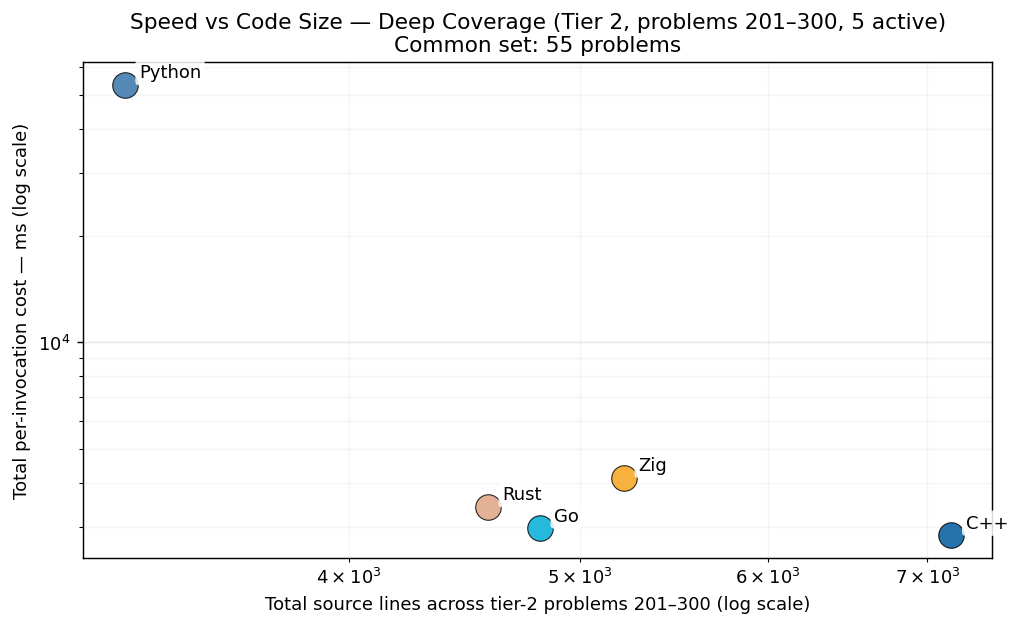
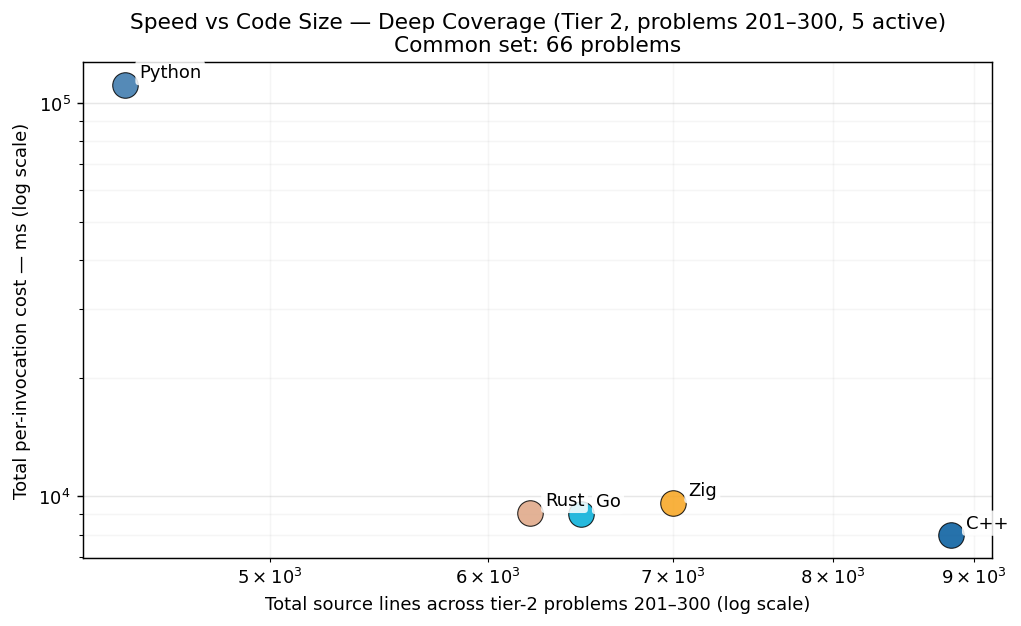
publish: +34 Rust wave-5 cells + cpp p254 correction; tier-2 rust 95/96 (only p275 missing); cross-lang verified p254=8184523820510

diff --git a/per_problem/per_problem_201-300.md b/per_problem/per_problem_201-300.md
@@ -32,13 +32,13 @@ column per language in tier-1 display order (native → managed → interpreted)
 | **p220** | 1.6 µs | 625 ns | 1.5 µs | 2.5 µs | 87.2 µs |
 | **p221** | 20.94 ms | 11.44 ms | 14.59 ms | 48.79 ms | 284.41 ms |
 | **p222** | 20.0 µs | 24.9 µs | 1.88 s | 27.3 µs | 1.11 ms |
-| **p223** | 5.53 s | — | 6.90 s | 5.69 s | — |
-| **p224** | 2.07 s | — | 2.16 s | 1.84 s | — |
+| **p223** | 5.53 s | 4.96 s | 6.90 s | 5.69 s | — |
+| **p224** | 2.07 s | 1.69 s | 2.16 s | 1.84 s | — |
 | **p225** | 15.87 ms | 17.56 ms | 15.81 ms | 16.29 ms | 348.93 ms |
-| **p226** | 497.15 ms | — | 54.20 ms | 2.48 s | — |
+| **p226** | 497.15 ms | 496.16 ms | 54.20 ms | 2.48 s | — |
 | **p227** | 75.7 µs | 36.0 µs | 12.2 µs | 83.7 µs | 1.54 ms |
 | **p228** | 13.2 µs | 12.5 µs | 8.1 µs | 13.5 µs | 242.9 µs |
-| **p229** | 4.62 s | — | 15.11 s | 6.86 s | — |
+| **p229** | 4.62 s | 4.98 s | 15.11 s | 6.86 s | — |
 | **p230** | 4.7 µs | 3.7 µs | 2.3 µs | 3.8 µs | 66.4 µs |
 | **p231** | 49.37 ms | 56.18 ms | 49.15 ms | 59.08 ms | 660.81 ms |
 | **p232** | 303.3 µs | 199.1 µs | 1.37 ms | 408.5 µs | 20.22 ms |
@@ -54,61 +54,61 @@ column per language in tier-1 display order (native → managed → interpreted)
 | **p242** | 1.5 µs | 584 ns | 1.2 µs | 4.2 µs | 26.1 µs |
 | **p243** | 1.9 µs | 375 ns | 45.2 µs | 5.3 µs | 13.9 µs |
 | **p244** | 16.30 ms | 10.56 ms | 61.97 ms | 16.33 ms | 89.55 ms |
-| **p245** | 1.03 s | — | 1.28 s | 746.20 ms | 6.68 s |
-| **p246** | 1.80 s | — | 3.47 ms | 2.02 s | — |
-| **p247** | 137.25 ms | — | 17.65 ms | 680.01 ms | 941.11 ms |
-| **p248** | 747.81 ms | — | 804.48 ms | 891.92 ms | 11.41 s |
-| **p249** | 1.11 s | — | 253.55 ms | 1.47 s | — |
+| **p245** | 1.03 s | 1.69 s | 1.28 s | 746.20 ms | 6.68 s |
+| **p246** | 1.80 s | 1.68 s | 3.47 ms | 2.02 s | — |
+| **p247** | 137.25 ms | 230.47 ms | 17.65 ms | 680.01 ms | 941.11 ms |
+| **p248** | 747.81 ms | 703.40 ms | 804.48 ms | 891.92 ms | 11.41 s |
+| **p249** | 1.11 s | 1.67 s | 253.55 ms | 1.47 s | — |
 | **p250** | 105.56 ms | 69.74 ms | 107.52 ms | 209.86 ms | 5.18 s |
-| **p251** | 2.94 s | — | 3.57 s | 3.18 s | — |
-| **p252** | 250.13 ms | — | 257.24 ms | 426.81 ms | 375 ns |
+| **p251** | 2.94 s | 3.20 s | 3.57 s | 3.18 s | — |
+| **p252** | 250.13 ms | 319.63 ms | 257.24 ms | 426.81 ms | 375 ns |
 | **p253** | 60.9 µs | 72.3 µs | 25.1 µs | 71.2 µs | 1.47 ms |
-| **p254** | 389.12 ms | — | 355.10 ms | 446.54 ms | 333 ns |
-| **p255** | 465.74 ms | — | 666.09 ms | 623.47 ms | 458 ns |
-| **p256** | 1.03 s | — | 1.10 s | 1.32 s | — |
-| **p257** | 370.36 ms | — | 378.97 ms | 394.40 ms | 2.07 s |
+| **p254** | 381.33 ms | 350.31 ms | 355.10 ms | 446.54 ms | 333 ns |
+| **p255** | 465.74 ms | 482.98 ms | 666.09 ms | 623.47 ms | 458 ns |
+| **p256** | 1.03 s | 1.40 s | 1.10 s | 1.32 s | — |
+| **p257** | 370.36 ms | 361.28 ms | 378.97 ms | 394.40 ms | 2.07 s |
 | **p258** | 184.26 ms | 490.68 ms | 205.72 ms | 262.07 ms | 177.49 ms |
-| **p259** | 4.76 s | — | 14.36 s | 1.40 s | — |
-| **p260** | 1.58 s | — | 1.11 s | 1.90 s | — |
+| **p259** | 4.76 s | 1.95 s | 14.36 s | 1.40 s | — |
+| **p260** | 1.58 s | 1.21 s | 1.11 s | 1.90 s | — |
 | **p261** | 18.31 ms | 15.82 ms | 16.33 ms | 14.73 ms | 600.07 ms |
-| **p262** | 5.92 s | — | — | 5.52 s | — |
-| **p263** | 5.31 s | — | 1.88 s | 1.60 s | — |
-| **p264** | 254.91 ms | — | 264.77 ms | 307.66 ms | 11.62 s |
+| **p262** | 5.92 s | 3.40 s | — | 5.52 s | — |
+| **p263** | 5.31 s | 2.16 s | 1.88 s | 1.60 s | — |
+| **p264** | 254.91 ms | 270.12 ms | 264.77 ms | 307.66 ms | 11.62 s |
 | **p265** | 479.8 µs | 327.0 µs | 501.6 µs | 980.5 µs | 42.78 ms |
-| **p266** | 1.52 s | — | 1.43 s | 5.03 s | — |
+| **p266** | 1.52 s | 981.46 ms | 1.43 s | 5.03 s | — |
 | **p267** | 15.1 µs | 27.8 µs | 12.5 µs | 30.4 µs | 328.2 µs |
 | **p268** | 37.80 ms | 24.44 ms | 24.14 ms | 35.47 ms | 2.47 s |
 | **p269** | 178.83 ms | 126.11 ms | 28.59 ms | 57.19 ms | 1.06 s |
 | **p270** | 688.8 µs | 624.6 µs | 41 ns | 704.6 µs | 16.17 ms |
 | **p271** | 100.1 µs | 118.3 µs | 42 ns | 45.9 µs | 240.1 µs |
-| **p272** | 6.43 s | — | 6.74 s | 8.03 s | — |
-| **p273** | 1.68 s | — | 1.82 s | 4.65 s | — |
+| **p272** | 6.43 s | 7.25 s | 6.74 s | 8.03 s | — |
+| **p273** | 1.68 s | 1.03 s | 1.82 s | 4.65 s | — |
 | **p274** | 97.32 ms | 59.00 ms | 198.65 ms | 63.87 ms | 572.57 ms |
 | **p275** | 81.69 s | — | — | — | — |
 | **p276** | 74.11 ms | 67.66 ms | 64.82 ms | 82.33 ms | 1.14 s |
 | **p277** | 6.3 µs | 6.0 µs | 5.7 µs | 24.2 µs | 19.4 µs |
 | **p278** | 32.83 ms | 21.11 ms | 65.32 ms | 34.54 ms | 5.95 s |
-| **p279** | 696.04 ms | — | 930.62 ms | 707.18 ms | 5.60 s |
+| **p279** | 696.04 ms | 669.60 ms | 930.62 ms | 707.18 ms | 5.60 s |
 | **p280** | 1.25 ms | 1.43 ms | 1.18 ms | 1.43 ms | 107.74 ms |
 | **p281** | 378.7 µs | 15.7 µs | 31.3 µs | 305.1 µs | 380.2 µs |
 | **p282** | 16.8 µs | 13.6 µs | 17.0 µs | 8.2 µs | 138.2 µs |
-| **p283** | 1.47 s | — | 1.57 s | 3.13 s | — |
-| **p284** | 252.42 ms | — | 276.56 ms | 324.38 ms | 16.30 s |
+| **p283** | 1.47 s | 1.63 s | 1.57 s | 3.13 s | — |
+| **p284** | 252.42 ms | 250.00 ms | 276.56 ms | 324.38 ms | 16.30 s |
 | **p285** | 3.64 ms | 3.73 ms | 4.20 ms | 4.93 ms | 10.40 ms |
 | **p286** | 116.8 µs | 287.8 µs | 149.9 µs | 183.7 µs | 11.76 ms |
-| **p287** | 788.43 ms | — | 500.55 ms | 577.46 ms | — |
+| **p287** | 788.43 ms | 573.98 ms | 500.55 ms | 577.46 ms | — |
 | **p288** | 131.74 ms | 72.96 ms | 137.20 ms | 45.75 ms | 737.05 ms |
 | **p289** | — | — | — | — | — |
 | **p290** | 7.27 ms | 10.31 ms | 7.68 ms | 10.72 ms | — |
-| **p291** | 2.04 s | — | 2.73 s | 2.00 s | — |
-| **p292** | 408.09 ms | — | 425.52 ms | 495.46 ms | — |
+| **p291** | 2.04 s | 4.03 s | 2.73 s | 2.00 s | — |
+| **p292** | 408.09 ms | 538.54 ms | 425.52 ms | 495.46 ms | — |
 | **p293** | 44.26 ms | 41.95 ms | 43.76 ms | 44.67 ms | 78.58 ms |
-| **p294** | 4.82 s | — | 7.24 s | 9.61 s | — |
-| **p295** | 537.45 ms | — | 252.08 ms | 507.05 ms | 3.24 s |
-| **p296** | 17.67 s | — | 18.14 s | 3.73 s | — |
+| **p294** | 4.82 s | 4.28 s | 7.24 s | 9.61 s | — |
+| **p295** | 537.45 ms | 354.83 ms | 252.08 ms | 507.05 ms | 3.24 s |
+| **p296** | 17.67 s | 24.91 s | 18.14 s | 3.73 s | — |
 | **p297** | 2.9 µs | 6.3 µs | 1.1 µs | 8.0 µs | 25.8 µs |
 | **p298** | 161.16 ms | 12.59 ms | — | 17.01 ms | — |
-| **p299** | 257.83 ms | — | 265.79 ms | 402.83 ms | — |
-| **p300** | 37.35 s | — | — | 6.46 s | — |
+| **p299** | 257.83 ms | 302.88 ms | 265.79 ms | 402.83 ms | — |
+| **p300** | 37.35 s | 32.07 s | — | 6.46 s | — |
 
 ⬅ [Back to RESULTS](../RESULTS.md)

diff --git a/RESULTS.md b/RESULTS.md
@@ -1,6 +1,6 @@
 # Project Euler — Cross-Language Benchmarks
 
-> **Scope: 2500 in-scope cells across 300 problems × tiered languages — 2409 measured (96.4% coverage).**
+> **Scope: 2500 in-scope cells across 300 problems × tiered languages — 2443 measured (97.7% coverage).**
 > The cross-language ranking below is computed over the **199-problem common set** (problems in 1-200 where every language has a passing measurement) — the apples-to-apples Foundation comparison surface.  Per-tier rankings and coverage detail appear further below.
 > Growing carefully — each new problem and language is audited for state-leak
 > safety, verified for answer correctness, and added only when it cleanly fits the
@@ -46,17 +46,17 @@ How much code does each language need to solve these 200 Foundation problems, an
 
 Same per-invocation metric, restricted to the deeper subset of languages (C++, Go, Python, Rust, Zig) that intentionally pushed past problem 200. The other 5 Foundation languages are out of tier scope here — they're capped at 200 by the project's language-cap policy (see JOURNEY.md).
 
-### Per-Invocation Cost (Common Set, 55 of 100 problems)
+### Per-Invocation Cost (Common Set, 66 of 100 problems)
 
 ![Per-Invocation Cost — Tier 2](charts/per_iter_total_tier2.png)
 
-| Rank | Language | Total (55-problem common set) | Lines of code | vs Fastest |
+| Rank | Language | Total (66-problem common set) | Lines of code | vs Fastest |
 |------|----------|--------------------:|--------------:|-----------:|
-| 1 | **C++** | 2.84 s | 7,162 | 1.00× |
-| 2 | **Go** | 2.98 s | 4,810 | 1.05× |
-| 3 | **Rust** | 3.42 s | 4,574 | 1.20× |
-| 4 | **Zig** | 4.14 s | 5,217 | 1.46× |
-| 5 | **Python** | 53.41 s | 3,219 | 18.81× |
+| 1 | **C++** | 7.96 s | 8,832 | 1.00× |
+| 2 | **Go** | 9.03 s | 6,485 | 1.13× |
+| 3 | **Rust** | 9.10 s | 6,216 | 1.14× |
+| 4 | **Zig** | 9.62 s | 7,005 | 1.21× |
+| 5 | **Python** | 111.27 s | 4,430 | 13.98× |
 
 ### Speed vs Code Size
 
